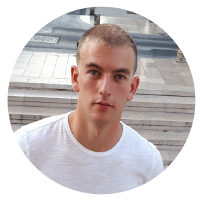
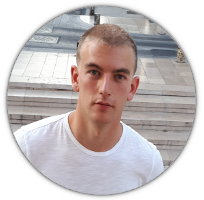
ombre portait + ajout texte latin pour le format

Changed region(s): [[0.0, 0.0, 0.9706, 0.81], [0.1176, 0.78, 0.7941, 0.99], [0.7941, 0.81, 0.8529, 0.87]]

diff --git a/index.html b/index.html
@@ -12,7 +12,8 @@
     <div id="bloc_page">
         <section>
             <aside>
-                <p><img src="portrait_2.png" class="portrait" alt="Portrait" /></p>
+                <div id="portrait"><img src="portrait_2.png" alt="Portrait" /></div>
+
                 <div id="contact">
                     <h3 class="information">Contact</h3>
                         <p>Adresse<br />
@@ -58,13 +59,19 @@
                         <div id="grille">
                             <div id="area_A"><i class="far fa-dot-circle"></i> 12/2019 - 06/2020</div>
                             <div id="area_B">OpenClassrooms<br />
-                            Prep'web</div>
+                            Prep'web<br />
+                            Lorem ipsum dolor sit amet, consectetur adipiscing elit. 
+                            Mauris tincidunt lorem risus, eu posuere libero facilisis volutpat. 
+                            Phasellus cursus ullamcorper nisl, in laoreet.</div>
                         </div>
 
                         <div id="grille">
                             <div id="area_A"><i class="fas fa-circle"></i> 04/2019 - 12/2019</div>
                             <div id="area_B">Greta Vaucluse<br />
-                            TP Carrossier réparateur</div>
+                            TP Carrossier réparateur<br />
+                            Lorem ipsum dolor sit amet, consectetur adipiscing elit. 
+                            Mauris tincidunt lorem risus, eu posuere libero facilisis volutpat. 
+                            Phasellus cursus ullamcorper nisl, in laoreet.</div>
                         </div>
                            
     				<h3><i class="fas fa-briefcase"></i> Experience professionelle</h3>
@@ -73,19 +80,28 @@
                         <div id="grille">
                             <div id="area_A"><i class="fas fa-circle"></i> 12/2017 - 02/2019</div>
                             <div id="area_B">Fun Alliance<br />
-                            Chauffeur Porteur Funéraire</div>
+                            Chauffeur Porteur Funéraire<br />
+                            Lorem ipsum dolor sit amet, consectetur adipiscing elit. 
+                            Mauris tincidunt lorem risus, eu posuere libero facilisis volutpat. 
+                            Phasellus cursus ullamcorper nisl, in laoreet.</div>
                         </div>
 
                         <div id="grille">
                             <div id="area_A"><i class="fas fa-circle"></i> 10/2016 - 12/2017</div>
                             <div id="area_B">Uber Eats et Stuart<br />
-                            Coursier</div>
+                            Coursier<br />
+                            Lorem ipsum dolor sit amet, consectetur adipiscing elit. 
+                            Mauris tincidunt lorem risus, eu posuere libero facilisis volutpat. 
+                            Phasellus cursus ullamcorper nisl, in laoreet.</div>
                         </div>
 
                         <div id="grille">
                             <div id="area_A"><i class="fas fa-circle"></i> 08/2015 - 07/2016</div>
                             <div id="area_B">Projet personnel<br />
-                            Rénovation d'une maison familiale</div>
+                            Rénovation d'une maison familiale<br />
+                            Lorem ipsum dolor sit amet, consectetur adipiscing elit. 
+                            Mauris tincidunt lorem risus, eu posuere libero facilisis volutpat. 
+                            Phasellus cursus ullamcorper nisl, in laoreet.</div>
                         </div>
 
     				<h3><i class="fas fa-pen"></i> Recommandations</h3>

diff --git a/style.css b/style.css
@@ -26,6 +26,10 @@
     text-align: center;
 }
 
+.portrait {
+    text-align: center;
+}
+
 section {
     display: flex;
 }
@@ -74,10 +78,12 @@ hr {
     display: grid;
     width: 100%;
     grid-template-columns: 1fr 1fr;
+    font-family: 'Gill Sans', 'Gill Sans MT', Calibri, 'Trebuchet MS', sans-serif;
 }
 
 #grille {
     display: grid;
     width: 100%;
-    grid-template-columns: 1fr 2fr;
+    grid-template-columns: 1fr 1fr;
+    font-family: 'Gill Sans', 'Gill Sans MT', Calibri, 'Trebuchet MS', sans-serif;
 }
